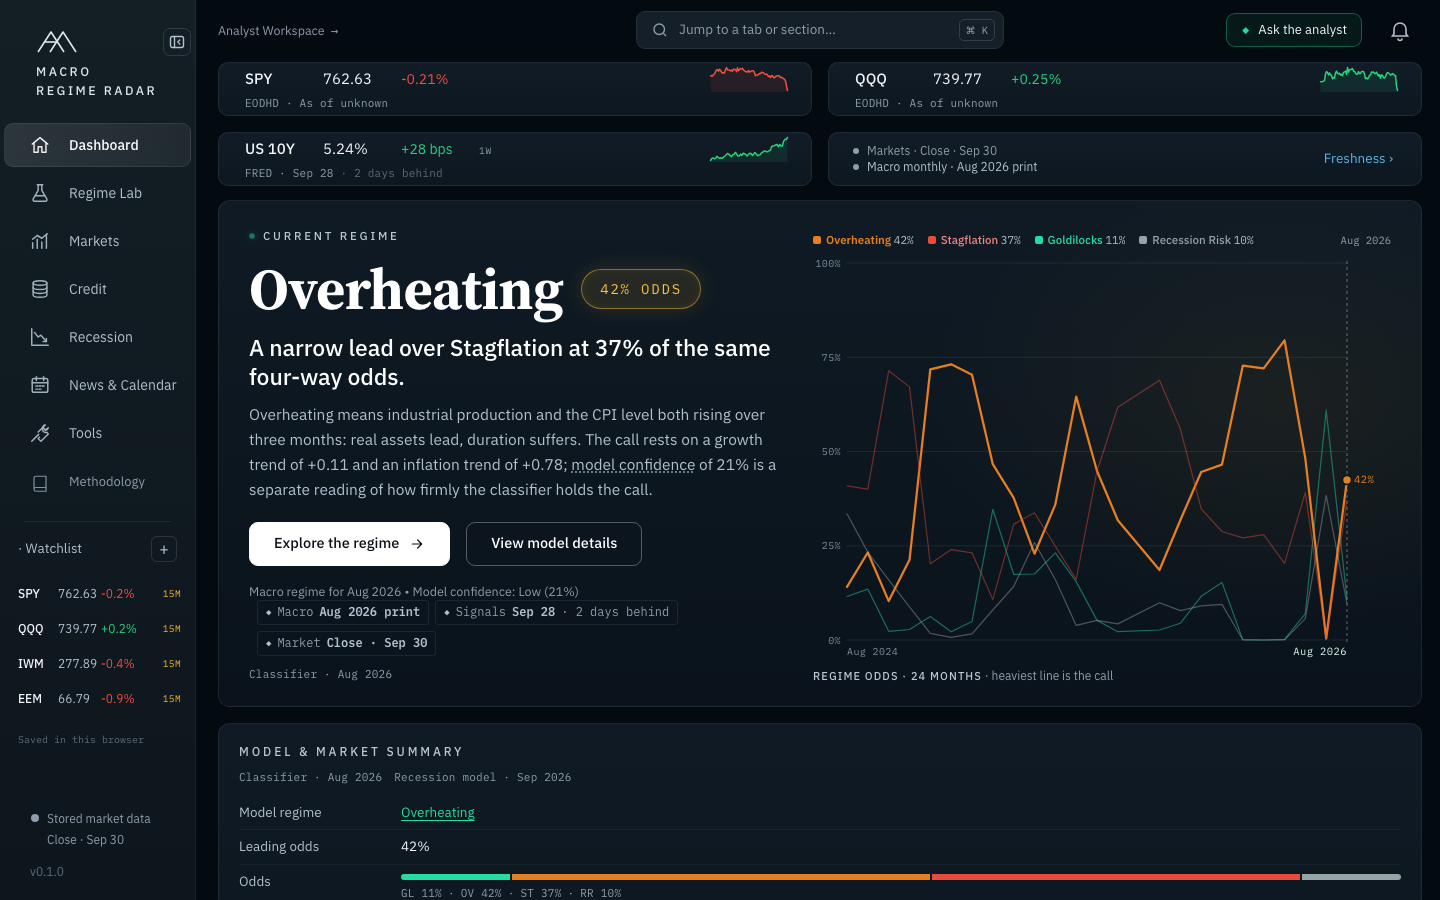
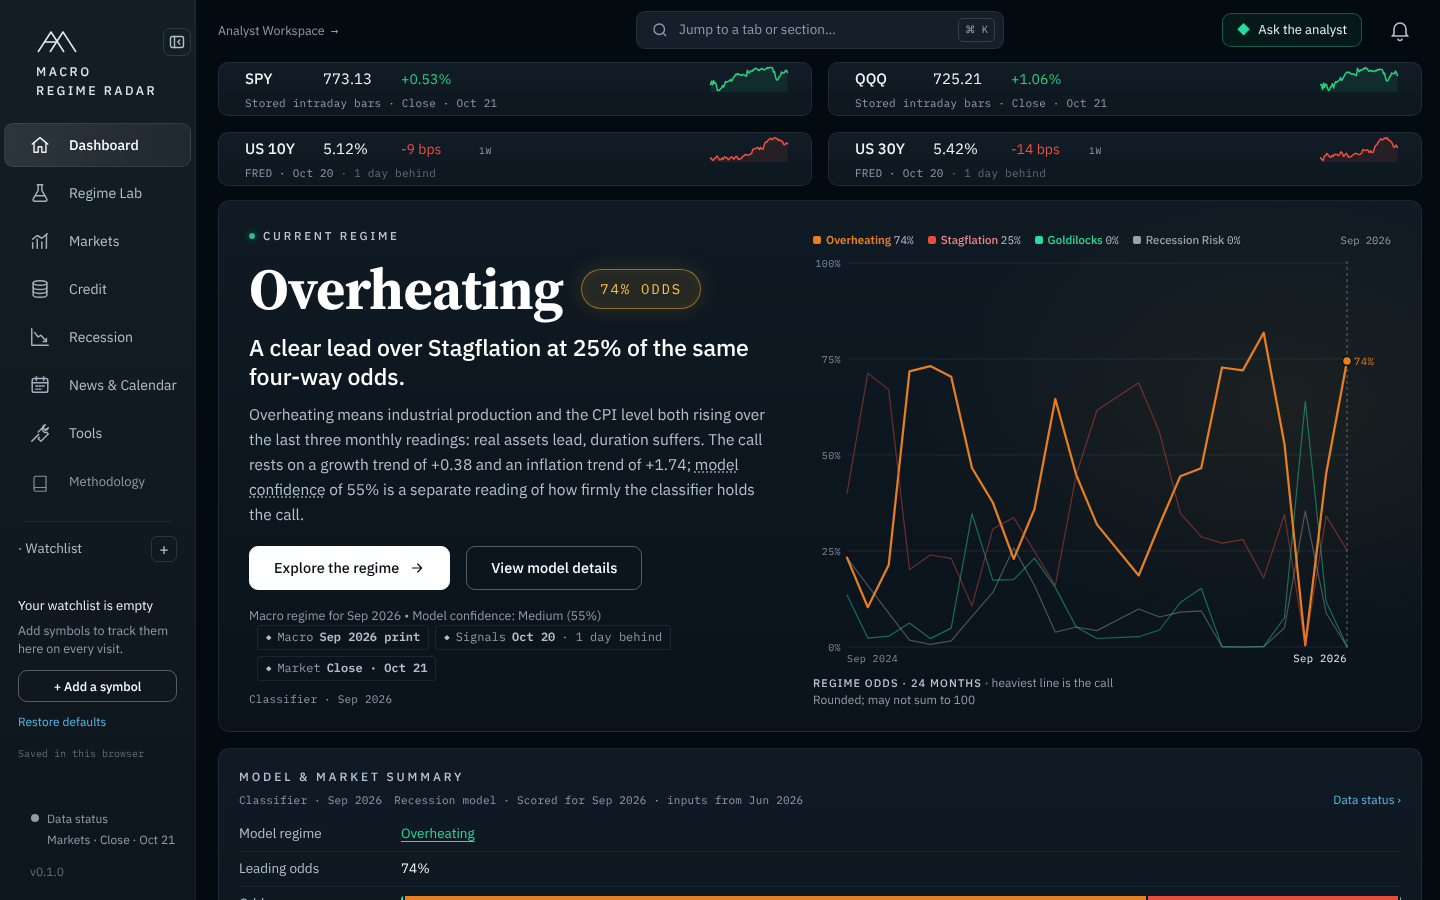
README: fresh screenshots, contact, prototype note, checked claims
Screenshots of the current site taken from a local run on the published
data-latest database (Oct 21 close). Adds the contact line and a note that
the Desk's prototype cards are illustrative, drops Streamlit and the
assistant's budget, adds a short data-model table, and rechecks each
model and page description against the code.

Claude-Session: https://claude.ai/code/session_01PZMnuouDCMomDeuUmYpJCS

diff --git a/README.md b/README.md
@@ -6,7 +6,7 @@
 
 ![The Dashboard: the current regime, its odds, and 24 months of regime history](docs/images/dashboard.png)
 
-Macro Regime Radar is a one-person project: a React and TypeScript front end, a FastAPI service, and a data pipeline that runs itself on GitHub Actions. It pulls macro data from FRED, market prices, and headlines; classifies the economy as **Goldilocks, Overheating, Stagflation or Recession Risk**; scores recession odds with a separate model; and publishes daily and weekly briefings. Every number on the site carries the date of the data behind it.
+Macro Regime Radar is a one-person project: a React and TypeScript front end, a FastAPI service, and a data pipeline that runs itself on GitHub Actions. It pulls macro data from FRED, market prices and headlines; classifies the economy as **Goldilocks, Overheating, Stagflation or Recession Risk**; scores recession odds with a separate model; and publishes daily and weekly briefings. Every number on the site carries the date of the data behind it.
 
 It is built for three kinds of visitors: someone who wants the macro picture in ten seconds, an analyst who wants to test an idea against history, and an engineer who wants to see how a small, fully automated data product is put together.
 
@@ -14,44 +14,58 @@ It is built for three kinds of visitors: someone who wants the macro picture in 
 
 ## What's on the site
 
-The site has two parts: the **terminal** (`/app`), seven tabs plus Methodology, and the **Analyst Desk** (`/desk`), a research and trading workspace.
+The site has two parts: the **terminal**, with seven tabs plus Methodology, and the **Analyst Desk**, a research and trading workspace.
 
 ### The terminal
 
 | Tab | What you can do there |
 |---|---|
 | **Dashboard** | See the current regime with its odds, the five monitored signals, key market levels, what markets are pricing, and the main macro charts. |
-| **Regime Lab** | Read the regime's playbook, where we are in the cycle, the odds of moving to another regime, historical analogues, a scenario builder, the full regime history, and backtests with factor attribution. |
-| **Markets** | Research any US stock or ETF (price history, corporate actions, options), watch the macro tape, scan the sector heatmap, and see the biggest data surprises. |
+| **Regime Lab** | Read the regime's playbook, where it sits in the cycle, the odds of moving to another regime, historical analogues, a scenario builder, the full regime history, and backtests with factor attribution. |
+| **Markets** | Research any US stock or ETF, watch the macro tape, scan the sector heatmap, and see what markets are pricing and the biggest data surprises. |
 | **Credit** | Track investment-grade and high-yield spreads by rating, the quality ladder, and financing conditions. |
 | **Recession** | See the recession model's score, the yield-curve monitor, and sliders that show how each input moves the odds. |
 | **News & Calendar** | Read priority headlines, each scored for significance and the top ones with a Claude interpretation and cited research, beside the macro release calendar. |
-| **Tools** | Run an LBO calculator, or an asset allocator with seven optimizers (mean-variance, minimum variance, risk parity, Black-Litterman, HRP, HERC, CVaR) fitted to the current regime. |
+| **Tools** | Run an LBO calculator, or an asset allocator with seven optimizers (mean-variance, minimum variance, risk parity, Black-Litterman, HRP, HERC and CVaR) built on how each asset class did in each regime. |
 | **Methodology** | How every model works, what it can and cannot claim, and where each number comes from. |
 
-Around the tabs: a live ticker strip, an **"Ask the analyst"** assistant that answers questions from the stored data, a ⌘K palette to jump to any section, and a **Data status** drawer that shows how current each feed is.
+Around the tabs: a market strip, an **"Ask the analyst"** assistant that answers questions from the stored data, a ⌘K palette to jump to any section, an alerts drawer, and a **Data status** drawer that shows how current each feed is.
+
+<table>
+  <tr>
+    <td><img src="docs/images/regime-lab.png" alt="Regime Lab: cycle position and the growth-inflation quadrant"></td>
+    <td><img src="docs/images/recession.png" alt="Recession: the logistic model's score and its history"></td>
+  </tr>
+</table>
 
 ### The Analyst Desk
 
 The Desk turns a macro view into a testable trade idea.
 
-- **Market:** Overview (what fired and what is closest to being wrong), Technicals for the S&P 500 or any US stock, sector leadership and breadth, rates and correlations, and the regime with the data prints that would change it.
-- **Research:** an **Event Study** engine that answers "what did markets do after this kind of shock?" with a scored verdict (Reliable, Suggestive, No edge, Too few), and a **Signal Ledger** of every scored signal.
-- **Trade:** **Basket & Hedge** prices a basket from real prices and sizes an ETF hedge; **Position Monitor** tracks how far each position is from its stop.
+- **Market:** Overview (what fired, and what is closest to being wrong), Technicals for the S&P 500 or any US stock, sector leadership and breadth, Macro & Correlations, and the regime with the data prints that would change it.
+- **Research:** an **Event Study** engine that answers "what did markets do after this kind of shock?" with a scored verdict (Reliable, Suggestive, No edge or Too few), and a **Signal Ledger** of every scored signal.
+- **Trade:** **Basket & Hedge** prices a basket from real prices and sizes an ETF hedge; **Position Monitor** tracks how far each position is from being wrong.
 - **About this build:** a Data Pipeline page that traces every panel to its source, and Build Notes.
 
-![The Analyst Desk overview](docs/images/desk-overview.png)
+A few Desk cards (options hedging, positioning, an event study on your basket, the volatility column on Technicals, and a Snowflake sync) are **prototypes**: they are drawn finished with illustrative values and say so in a footnote. They will be wired to live data over the coming weeks.
+
+<table>
+  <tr>
+    <td><img src="docs/images/desk-overview.png" alt="Analyst Desk overview: regime, recession, trend and VIX tiles with the active signals"></td>
+    <td><img src="docs/images/desk-event-study.png" alt="Event Study: what the S&P 500 did after gold rose two standard deviations while the S&P was weak"></td>
+  </tr>
+</table>
 
 ---
 
 ## How the regime call works
 
-1. **Growth and inflation trends.** Every month the pipeline measures the three-month trend of industrial production and of the CPI level.
-2. **Four quadrants.** Rising growth and falling inflation is Goldilocks; both rising is Overheating; falling growth with rising inflation is Stagflation; both falling is Recession Risk.
-3. **Odds, not just a label.** A temperature-scaled softmax over the two trends' z-scores turns that into odds for all four regimes, so the site can say how narrow the lead is.
-4. **A separate recession model.** A logistic regression trained on NBER recession dates scores the odds of recession from the yield curve, credit spreads, breakevens, unemployment and industrial production. It is labelled as its own model, never mixed with the classifier's odds.
+1. **Growth and inflation trends.** Each month the pipeline fits the three-month slope of industrial production and of the CPI level.
+2. **Four quadrants.** Rising growth with falling inflation is Goldilocks; both rising is Overheating; falling growth with rising inflation is Stagflation; both falling is Recession Risk.
+3. **Odds, not just a label.** A temperature-scaled softmax over how far each trend sits from its own history turns that into odds for all four regimes, so the site can say how narrow the lead is.
+4. **A separate recession model.** A logistic regression trained on NBER recession dates scores recession odds from the yield curve, unemployment, the high-yield credit spread, industrial production and the inflation-breakeven spread, read three months earlier. It is labelled as its own model and never mixed with the classifier's odds.
 
-The [Methodology page](https://macro-economic-radar.vercel.app/app/methodology) covers the signals, the backtests, and the limits of each model.
+The [Methodology page](https://macro-economic-radar.vercel.app/app/methodology) covers the signals, the backtests and the limits of each model.
 
 ---
 
@@ -68,13 +82,13 @@ flowchart LR
     subgraph Pipeline["GitHub Actions"]
         REF["refresh-data<br/>full · market · news"]
         INTRA["intraday-refresh<br/>every 5 min in market hours"]
-        AI["Claude + Perplexity<br/>headline reads, cost-capped"]
-        VAL["validate_db<br/>gate before publishing"]
+        AI["Claude + Perplexity<br/>headline reads"]
+        VAL["validation gate"]
         MEMO["daily-memo · weekly-memo"]
     end
 
     REL[("SQLite database<br/>GitHub Release asset")]
-    API["FastAPI on Render<br/>read-only, background worker"]
+    API["FastAPI on Render<br/>read-only"]
     WEB["React + Vite on Vercel"]
     PAGES["GitHub Pages<br/>published memos"]
 
@@ -88,28 +102,46 @@ flowchart LR
     VAL -->|pass| REL
     REL --> MEMO --> PAGES
     REL --> API
-    MKT -.->|live quotes, on-demand lookups| API
+    MKT -.->|live quotes, stock lookups| API
     API --> WEB
 ```
 
-**Data pipeline.** Scheduled GitHub Actions workflows fetch macro series from FRED, prices from EODHD and Yahoo Finance, and headlines from Finnhub, NewsAPI and RSS feeds. A full refresh runs before the US open and after the close; market data updates every five minutes during trading hours; news updates hourly. The top headlines get a Claude interpretation and Perplexity research, under an hourly limit and a monthly spending cap that every call is logged against.
+**Data pipeline.** Scheduled GitHub Actions workflows fetch macro series from FRED, prices from Yahoo Finance and EODHD, and headlines from Finnhub, NewsAPI and RSS feeds. A full refresh runs before the US open and after the close, market prices update every five minutes during trading hours, and news updates hourly. The most significant headlines get a Claude interpretation and Perplexity research with citations.
 
-**Database as a release asset.** The SQLite database is not stored in git. Each run downloads the latest copy from a GitHub Release, updates it, and runs a validation gate (integrity, row counts, date regressions, freshness by source). It publishes the database back only if the gate passes, along with a small file recording the verdict. A bad run never replaces a good database.
+**Database as a release asset.** The SQLite database is not stored in git. Each run downloads the latest copy from a GitHub Release, updates it, and runs a validation gate (integrity, row counts, date regressions, and freshness by source). The run publishes the database back only if the gate passes, so a bad run never replaces a good database.
 
-**API.** A FastAPI service on Render downloads the published database and opens it read-only. A background worker computes every model result once per database version, called a generation, and each request is pinned to one generation, so a page never mixes numbers from two versions of the data. The service also relays live quotes over a WebSocket without exposing the provider key, and applies rate limits, request size caps and a daily budget for the AI assistant.
+**API.** A FastAPI service on Render downloads the published database and opens it read-only. A background worker computes every model result once per database version, and each request is pinned to one version, so a page never mixes numbers from two versions of the data. The same service relays live quotes and answers on-demand stock lookups, keeping provider keys on the server.
 
-**Front end.** A React 18 and TypeScript app built with Vite and hosted on Vercel, using TanStack Query for data and a hand-built design system. The build ships a validated snapshot, so the main pages render even while the API host is waking up.
+**Front end.** A React 18 and TypeScript app built with Vite and hosted on Vercel, using TanStack Query for data and a hand-built dark design system. The build ships a validated snapshot, so the main pages render even while the API is waking up.
 
-**Briefings.** After a validated morning refresh, the pipeline builds a daily memo (and a weekly one on its schedule), emails it, and publishes it to GitHub Pages.
+**Briefings.** After a validated morning refresh, the pipeline builds the daily memo on weekdays and the weekly memo on Mondays, emails them, and publishes them to GitHub Pages.
 
 ---
 
 ## Engineering highlights
 
 - **Freshness is part of the data.** Every series reports whether it is live, delayed, at the last close, or stale, judged against that source's normal publishing lag and the NYSE and bond-market calendars.
-- **The event-study engine is careful about evidence.** It uses the NYSE session calendar, only counts data that was knowable at the time, and resamples overlapping events as blocks so one selloff isn't counted as five pieces of evidence.
-- **The AI is fenced in.** The assistant can only run read-only queries through a shared SQL guard, and every model call is checked against a spending ledger before it is made.
-- **Tested end to end.** About 1,400 Python test functions and 150 front-end test files, plus Playwright end-to-end specs.
+- **The event-study engine is careful about evidence.** It uses the NYSE session calendar, counts only data that was knowable at the time, and resamples overlapping events as blocks, so one selloff isn't counted as five pieces of evidence.
+- **The AI is fenced in.** The assistant answers through a fixed set of read-only tools over the stored data, and the headline interpretations on the site are written once by the pipeline and stored, not generated when a page loads.
+- **Tested.** About 1,400 Python test functions, 150 front-end test files, and Playwright end-to-end specs.
+
+---
+
+## Data model
+
+The SQLite store holds, among others:
+
+| Table | What it holds |
+|---|---|
+| `raw_series` | FRED macro series, one row per month |
+| `regimes` | The monthly regime label, its trends, confidence and the four regime odds |
+| `signals` | The five monitored signals and whether each has triggered |
+| `market_daily`, `market_intraday` | Daily and five-minute bars for the market strip and tape |
+| `asset_prices`, `desk_series` | Long daily histories for allocation and the Desk's engine |
+| `news_feed` | Headlines with significance scores, Claude interpretations and cited research |
+| `event_calendar` | Upcoming macro releases |
+| `backtest_results` | Regime backtests |
+| `source_watermarks` | The true date of each source's newest observation |
 
 ---
 
@@ -118,7 +150,7 @@ flowchart LR
 | Layer | Tools |
 |---|---|
 | Front end | React 18, TypeScript, Vite, TanStack Query, Vitest, Playwright |
-| API | Python 3.12, FastAPI, Uvicorn, WebSockets, httpx |
+| API | Python, FastAPI, Uvicorn, WebSockets, httpx |
 | Analytics | pandas, NumPy, scikit-learn, riskfolio-lib, exchange_calendars |
 | Data | SQLite, FRED, EODHD, Yahoo Finance, Finnhub, NewsAPI, RSS |
 | AI | Anthropic Claude, Perplexity Sonar |
@@ -126,20 +158,23 @@ flowchart LR
 
 ---
 
-## Repository layout
+## Project structure
 
 ```
-web/        React + TypeScript front end (terminal, Analyst Desk, landing page)
-api/        FastAPI service: routes, background worker, providers, live relay, security
+web/        React + TypeScript front end: landing page, terminal, Analyst Desk
+api/        FastAPI service: routes, background worker, market data providers, live relay
 src/        Data pipeline and analytics: regime classifier, recession model,
-            allocation, credit, news, event-study engine (src/desk/)
-scripts/    Database validation, snapshots, fixtures, maintenance tools
+            allocation, credit, news, and the event-study engine (src/desk/)
+scripts/    Database validation and maintenance tools
 tests/      Python test suite
-.github/    Scheduled refresh, intraday, memo and keep-warm workflows
+.github/    Scheduled refresh, intraday and memo workflows
 docs/       Methodology notes, design specs and build reports
-dashboard/  The original Streamlit version of the app
 ```
 
 ---
 
-*Macro Regime Radar is a personal project. Nothing on the site is investment advice.*
+## Contact
+
+Built by **Max Komen**. [LinkedIn](https://www.linkedin.com/in/max-komen) · [maxkomen@gmail.com](mailto:maxkomen@gmail.com)
+
+*Nothing on the site is investment advice.*
